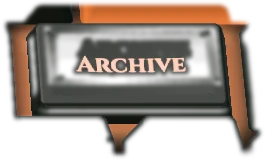
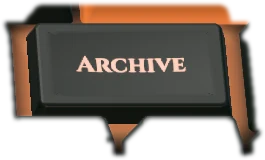
Footer keyboard: no ghost legend on pressed keys
Each hover/press frame was masked to what changed, and a pressed cap's flat top
barely changes, so the mask had a hole there and the board's own legend (at the
unpressed height) showed through above the pressed one, most visibly on the wide
keys. The export now fills everything inside a key's outline solid and feathers
only the outer edge.

Claude-Session: https://claude.ai/code/session_014kgsP4zXbR91SpjPr6JWR2

diff --git a/build.js b/build.js
@@ -2,7 +2,7 @@ const fs = require("node:fs");
 const path = require("node:path");
 
 const config = Object.freeze({
-  stylesheetVersion: "vg-30-hub-font",
+  stylesheetVersion: "vg-31-board-masks",
   siteTitle: "Yoru Foundry",
   SITE_MODE: "prelaunch",
   // Cloudflare Turnstile site key (public). Empty = no widget; the Worker's TURNSTILE_SECRET must be set with it.

diff --git a/mockups/keys/board-export.py b/mockups/keys/board-export.py
@@ -3,7 +3,7 @@ Usage: python3 board-export.py <render dir> <repo root>
 Reads base.png (unlit), lit.png and <id>-h.png / <id>-p.png (hover / pressed, both lit) from render-board.js.
 Writes src/static/assets/footer-board/*.webp and the boxes in src/static/data/footer-board.json."""
 import json, sys
-from PIL import Image, ImageChops, ImageFilter
+from PIL import Image, ImageChops, ImageDraw, ImageFilter
 src, root = sys.argv[1], sys.argv[2]
 out = root + '/src/static/assets/footer-board'
 data_path = root + '/src/static/data/footer-board.json'
@@ -26,7 +26,13 @@ for id, key in data['keys'].items():
         diff = ImageChops.difference(im.convert('RGB'), L.convert('RGB'))
         mask = diff.split()[0]
         for ch in diff.split()[1:]: mask = ImageChops.lighter(mask, ch)
-        mask = mask.point(lambda v: 0 if v <= 2 else min(255, (v - 2) * 24)).filter(ImageFilter.MaxFilter(5)).filter(ImageFilter.GaussianBlur(2))
+        mask = mask.point(lambda v: 0 if v <= 2 else min(255, (v - 2) * 24)).filter(ImageFilter.MaxFilter(5))
+        # fill the holes: a pressed cap's flat top barely changes, and a hole there lets the board's own legend
+        # (at the unpressed height) show through as a ghost. Solid inside, feathered only at the outer edge.
+        solid = mask.point(lambda v: 255 if v > 0 else 0)
+        outside = solid.copy(); ImageDraw.floodfill(outside, (0, 0), 128)
+        inside = outside.point(lambda v: 0 if v == 128 else 255)
+        mask = ImageChops.lighter(mask, inside).filter(ImageFilter.GaussianBlur(2))
         a = ImageChops.multiply(mask, im.getchannel('A'))
         im.putalpha(a)
         d = a.getbbox()
